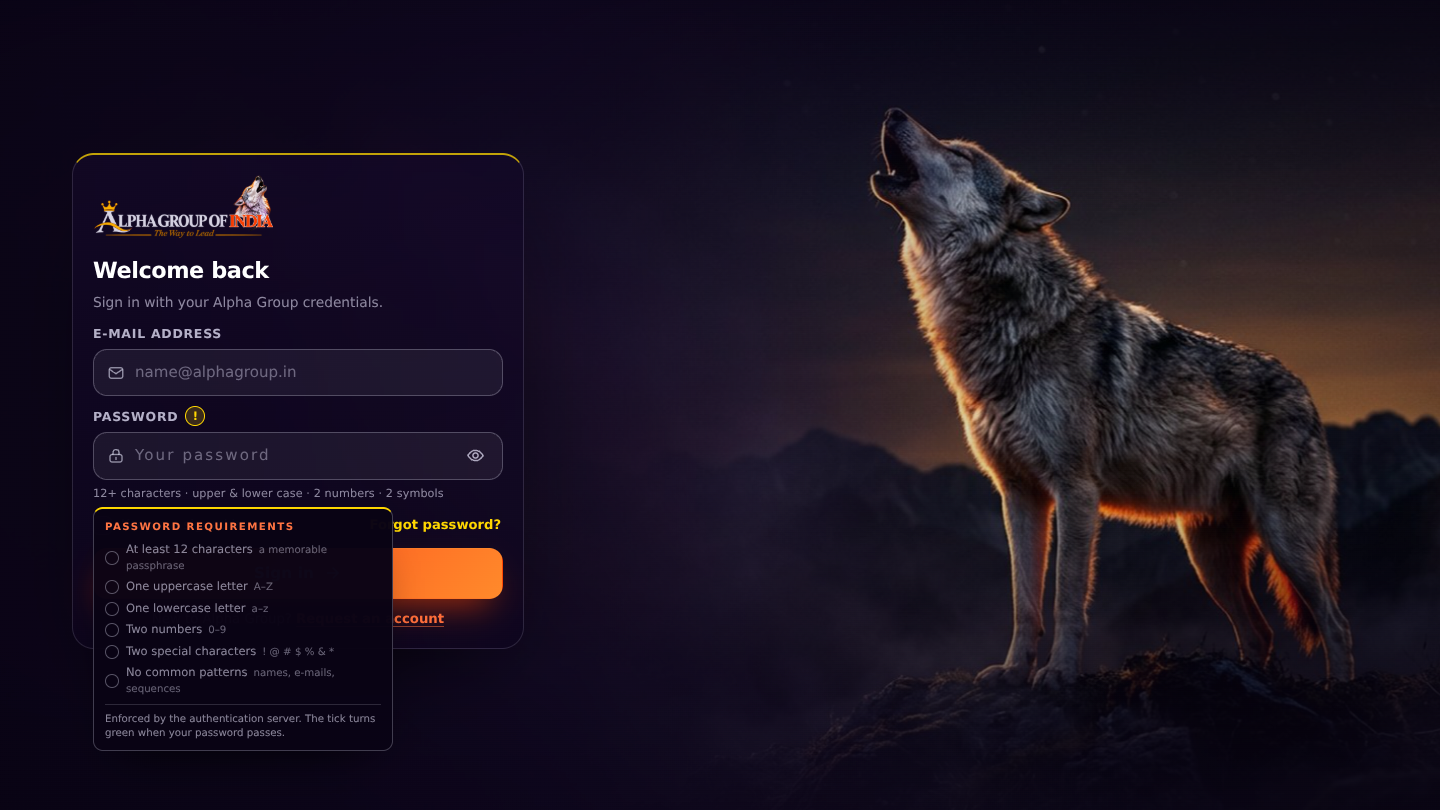
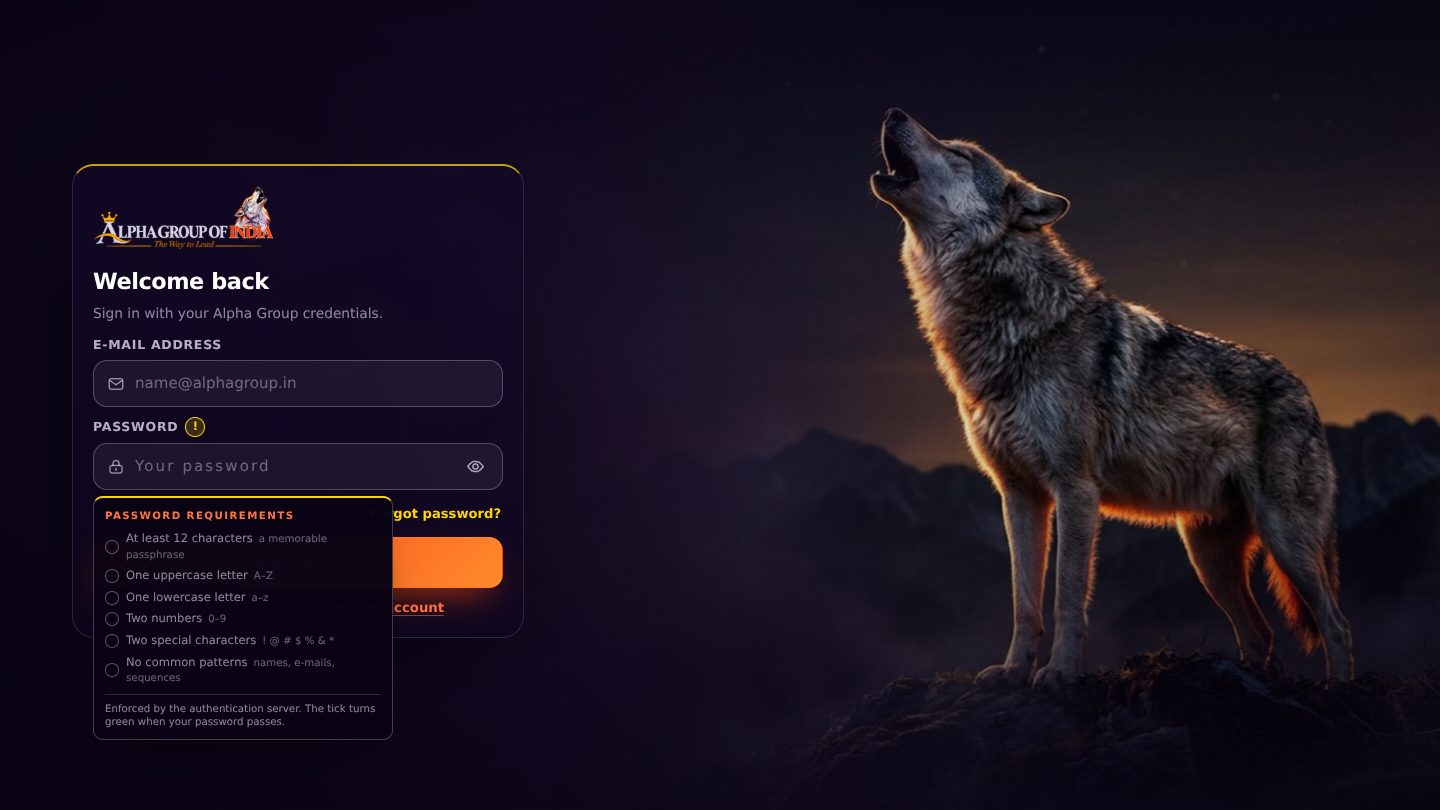
fix(ui): drop the requirement caption under the password field
The '12+ characters · upper & lower case · 2 numbers · 2 symbols' line is
removed from sign-in and sign-up; the full requirement list stays behind the
'!' hover/tap indicator. Dead caption styles removed; test updated.

Changed region(s): [[0.0625, 0.1852, 0.375, 0.9259], [0.25, 0.7099, 0.3438, 0.8025], [0.3125, 0.5556, 0.3438, 0.5864]]

diff --git a/app/static/css/app.css b/app/static/css/app.css
@@ -518,14 +518,6 @@ ul { padding: 0; list-style: none; }
   color: var(--danger);
 }
 
-.field__note {
-  display: block;
-  font-size: 0.7rem;
-  line-height: 1.4;
-  color: var(--text-muted);
-  letter-spacing: 0.01em;
-}
-
 /* --- the "!" popover ----------------------------------------------------- */
 .policy-pop {
   /* Compact overlay so the Sign in button never gets pushed off-screen. */
@@ -1134,7 +1126,6 @@ code {
   .stage { padding-top: 18px; row-gap: 16px; padding-bottom: 22px; }
   .stage__col { gap: 14px; max-width: 100%; }
   .access__brand { width: min(190px, 58%); }
-  .field__note { font-size: 0.68rem; }
   .access { padding: 20px; border-radius: 18px; }
   .policy-grid { grid-template-columns: repeat(2, minmax(0, 1fr)); }
   .policy-columns { grid-template-columns: 1fr; }

diff --git a/app/templates/login.html b/app/templates/login.html
@@ -131,8 +131,6 @@
             </button>
           </div>
 
-          <p class="field__note">12+ characters · upper &amp; lower case · 2 numbers · 2 symbols</p>
-
           <p class="hint hint--caps" id="capsLock" hidden>
             <svg viewBox="0 0 24 24" width="14" height="14" fill="none" stroke="currentColor" stroke-width="2"
                  stroke-linecap="round" stroke-linejoin="round" aria-hidden="true">

diff --git a/app/templates/signup.html b/app/templates/signup.html
@@ -130,8 +130,6 @@
             </button>
           </div>
 
-          <p class="field__note">12+ characters · upper &amp; lower case · 2 numbers · 2 symbols</p>
-
           <p class="hint hint--caps" id="capsLock" hidden>
             <svg viewBox="0 0 24 24" width="14" height="14" fill="none" stroke="currentColor" stroke-width="2"
                  stroke-linecap="round" stroke-linejoin="round" aria-hidden="true">

diff --git a/tests/test_routes.py b/tests/test_routes.py
@@ -151,7 +151,10 @@ class AuthRouteTests(unittest.TestCase):
         self.assertIn('id="policyInfoBtn"', html)
         self.assertIn('data-state="empty"', html)
         self.assertIn('id="policyPopover"', html)
-        self.assertIn("12+ characters · upper &amp; lower case · 2 numbers · 2 symbols", html)
+        # No requirement caption under the password field any more — the
+        # details live in the "!" hover popover only.
+        self.assertNotIn("12+ characters", html)
+        self.assertNotIn("field__note", html)
         self.assertIn("At least 12 characters", html)
         self.assertIn('id="togglePassword"', html)
         self.assertIn('data-check-endpoint="/api/password-check"', html)
